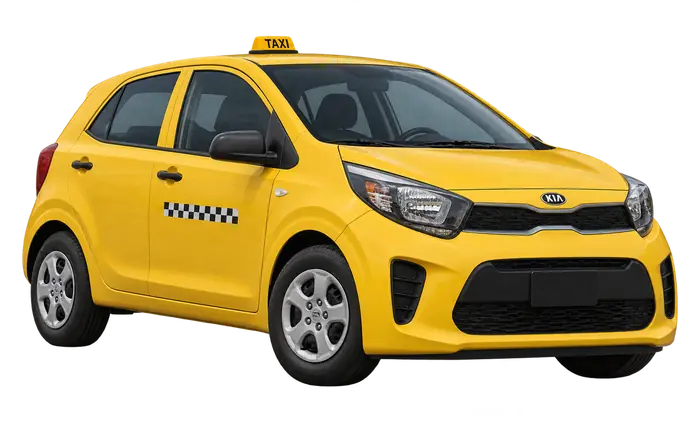
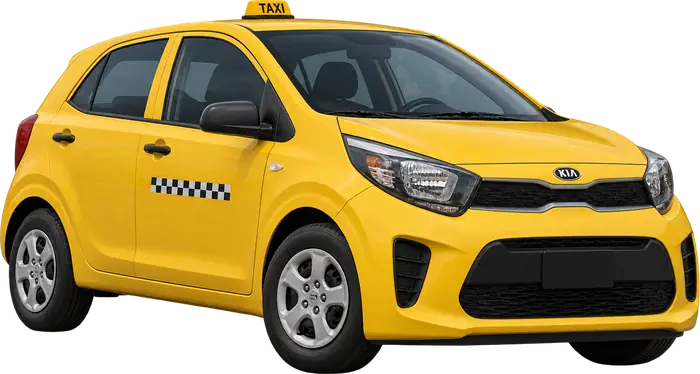
fix(087): la imagen del taxi se ve del tamaño del Corolla
El PNG del taxi traía "polvo" invisible (alfa de 1 a 15) alrededor del carro,
y el recorte por el bbox del alfa se quedaba con la imagen entera: 1633x963
en vez de los 1498x800 que mide el carro. Ese aire de más hacía que, con
`object-fit: contain`, el taxi se dibujara más chico que el híbrido. Mismo
arreglo que en la 085: alfa >= 240 a opaco y < 16 a transparente antes de
recortar. Pasa de 1,66:1 a 1,87:1; 34 KB. ?v=107.

diff --git a/Frontend/index.html b/Frontend/index.html
@@ -99,7 +99,7 @@
     -->
     <link rel="icon" type="image/png" sizes="192x192" href="/favicon.png" />
     <link rel="apple-touch-icon" sizes="180x180" href="/apple-touch-icon.png" />
-    <link rel="stylesheet" href="/styles.css?v=106" />
+    <link rel="stylesheet" href="/styles.css?v=107" />
     <!--
       Ficha del negocio para Google, en JSON-LD.
 
@@ -204,7 +204,7 @@
         <!-- El logo es un archivo propio (antes lo servía media.base44.com, un host ajeno: si cae
              o borra el archivo, el sitio se quedaba sin logo en todas las páginas). 208 px de ancho
              para mostrarse a 104 con doble densidad. -->
-        <img src="/assets/img/logo-cda.webp?v=106" alt="CDA de Valledupar" width="104" height="52" />
+        <img src="/assets/img/logo-cda.webp?v=107" alt="CDA de Valledupar" width="104" height="52" />
         <span>CDA de Valledupar</span>
       </a>
       <button class="menu-btn" id="menuBtn" aria-label="Abrir menú" aria-controls="mainNav" aria-expanded="false">☰</button>
@@ -252,20 +252,20 @@
     </footer>
 
     <!-- Módulos de la aplicación -->
-    <script src="/data.js?v=106"></script>
-    <script src="/utils.js?v=106"></script>
-    <script src="/pages/home.js?v=106"></script>
-    <script src="/pages/recomendaciones.js?v=106"></script>
-    <script src="/pages/tarifas.js?v=106"></script>
-    <script src="/pages/faq.js?v=106"></script>
-    <script src="/pages/schedule.js?v=106"></script>
-    <script src="/pages/contact.js?v=106"></script>
-    <script src="/pages/ubicanos.js?v=106"></script>
-    <script src="/pages/politica-datos.js?v=106"></script>
-    <script src="/pages/encuesta.js?v=106"></script>
-    <script src="/pages/admin.js?v=106"></script>
-    <script src="/pages/admin-login.js?v=106"></script>
-    <script src="/chatbot.js?v=106"></script>
-    <script src="/app.js?v=106"></script>
+    <script src="/data.js?v=107"></script>
+    <script src="/utils.js?v=107"></script>
+    <script src="/pages/home.js?v=107"></script>
+    <script src="/pages/recomendaciones.js?v=107"></script>
+    <script src="/pages/tarifas.js?v=107"></script>
+    <script src="/pages/faq.js?v=107"></script>
+    <script src="/pages/schedule.js?v=107"></script>
+    <script src="/pages/contact.js?v=107"></script>
+    <script src="/pages/ubicanos.js?v=107"></script>
+    <script src="/pages/politica-datos.js?v=107"></script>
+    <script src="/pages/encuesta.js?v=107"></script>
+    <script src="/pages/admin.js?v=107"></script>
+    <script src="/pages/admin-login.js?v=107"></script>
+    <script src="/chatbot.js?v=107"></script>
+    <script src="/app.js?v=107"></script>
   </body>
 </html>
